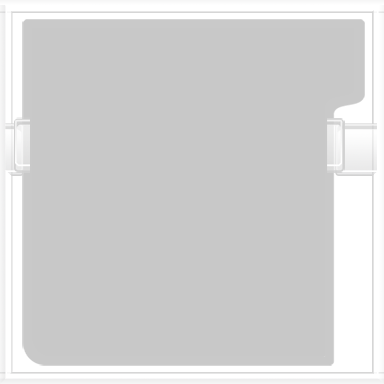
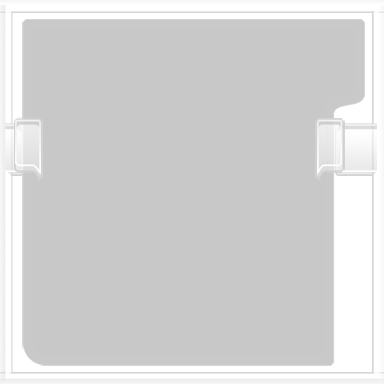
画像を変更
外枠にツメをつける

Changed region(s): [[0.8125, 0.3125, 0.875, 0.4688], [0.0625, 0.3125, 0.125, 0.4688]]

diff --git a/r/view.js b/r/view.js
@@ -119,11 +119,7 @@ $(function(){
 	});
 
 	// あまりを詰めるためのアイテム
-	var $blank = $('<div>').addClass('col-lg-4 col-md-6 col-sm-6 col-xs-12 h4p_item h4p_item-blank').append(
-		$('<div>').addClass('h4p_item-frame').append(
-			$('<img>').attr('src', '../img/cassette/tab.png')
-		)
-	);
+	var $blank = $('<div>').addClass('col-lg-4 col-md-6 col-sm-6 col-xs-12 h4p_item h4p_item-blank').append();
 
 	// サイズ調整 ロード時とリサイズ時
 	alignmentOnResize();
